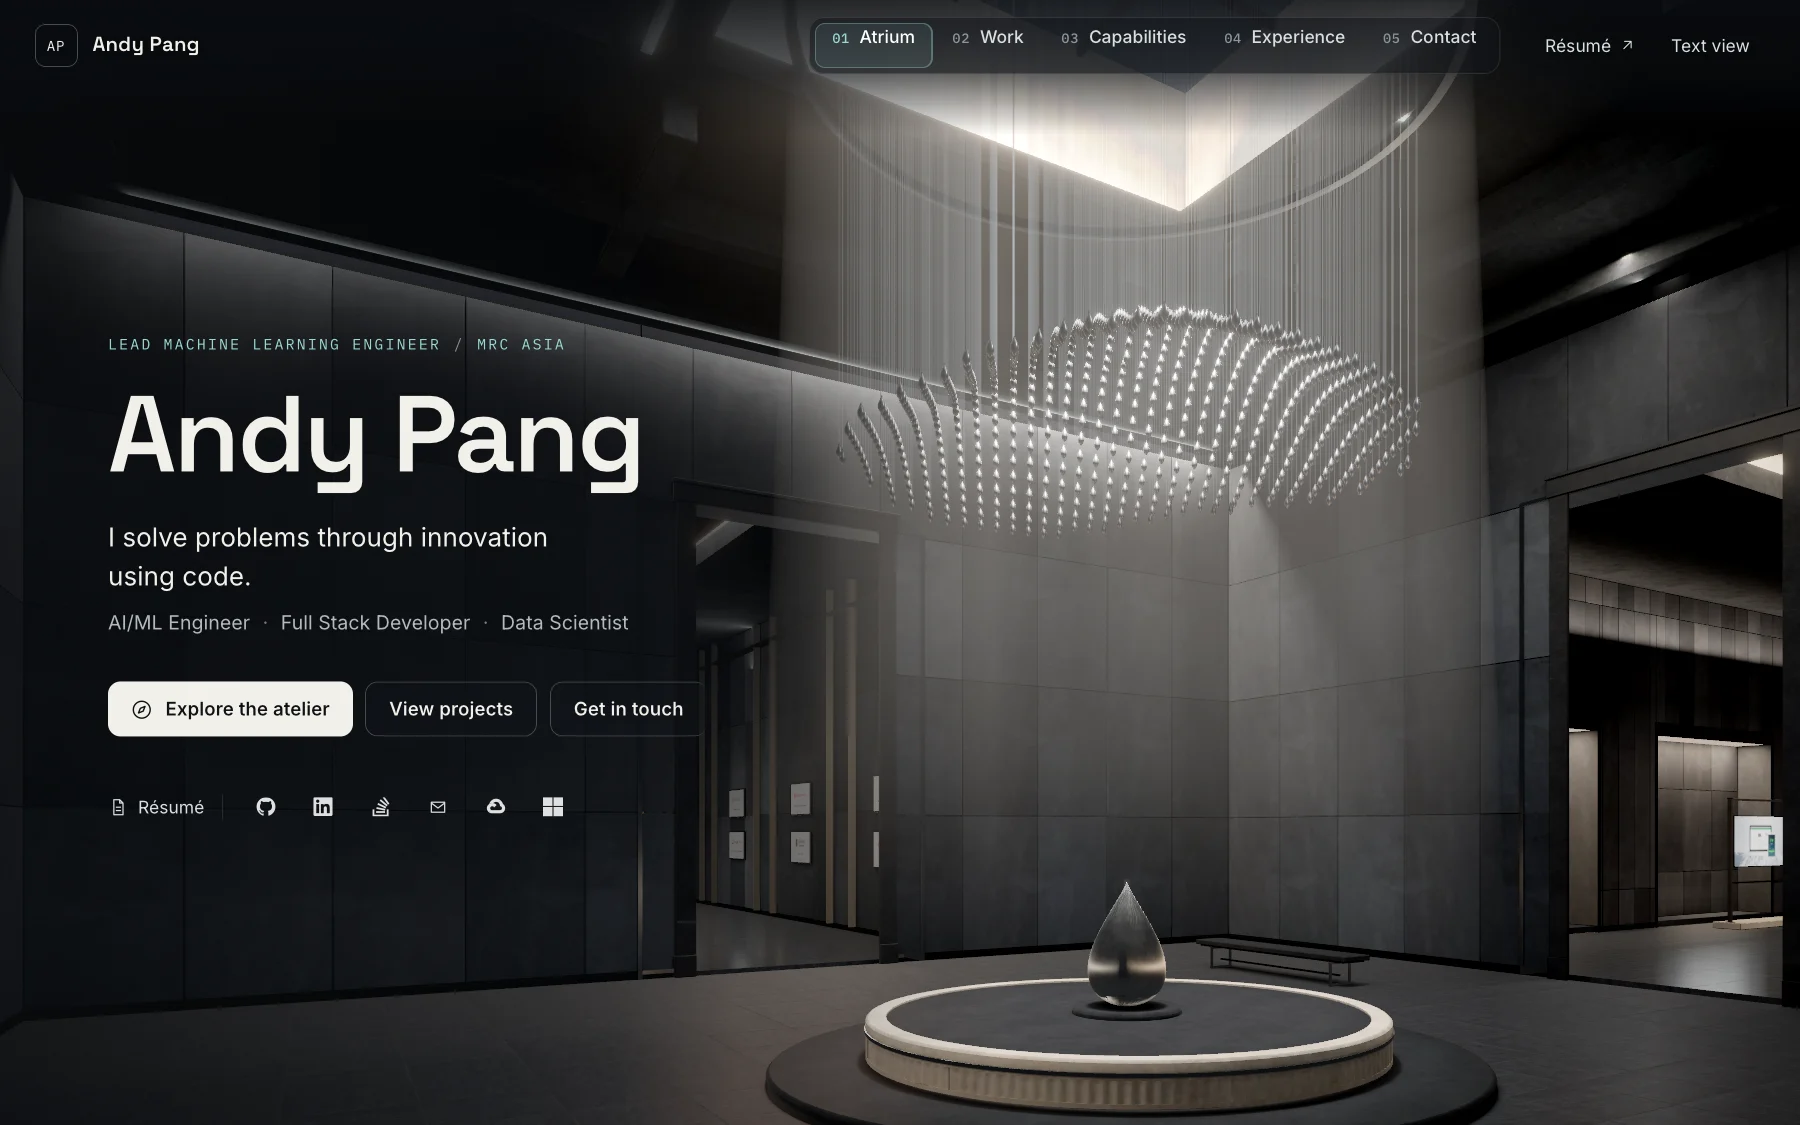
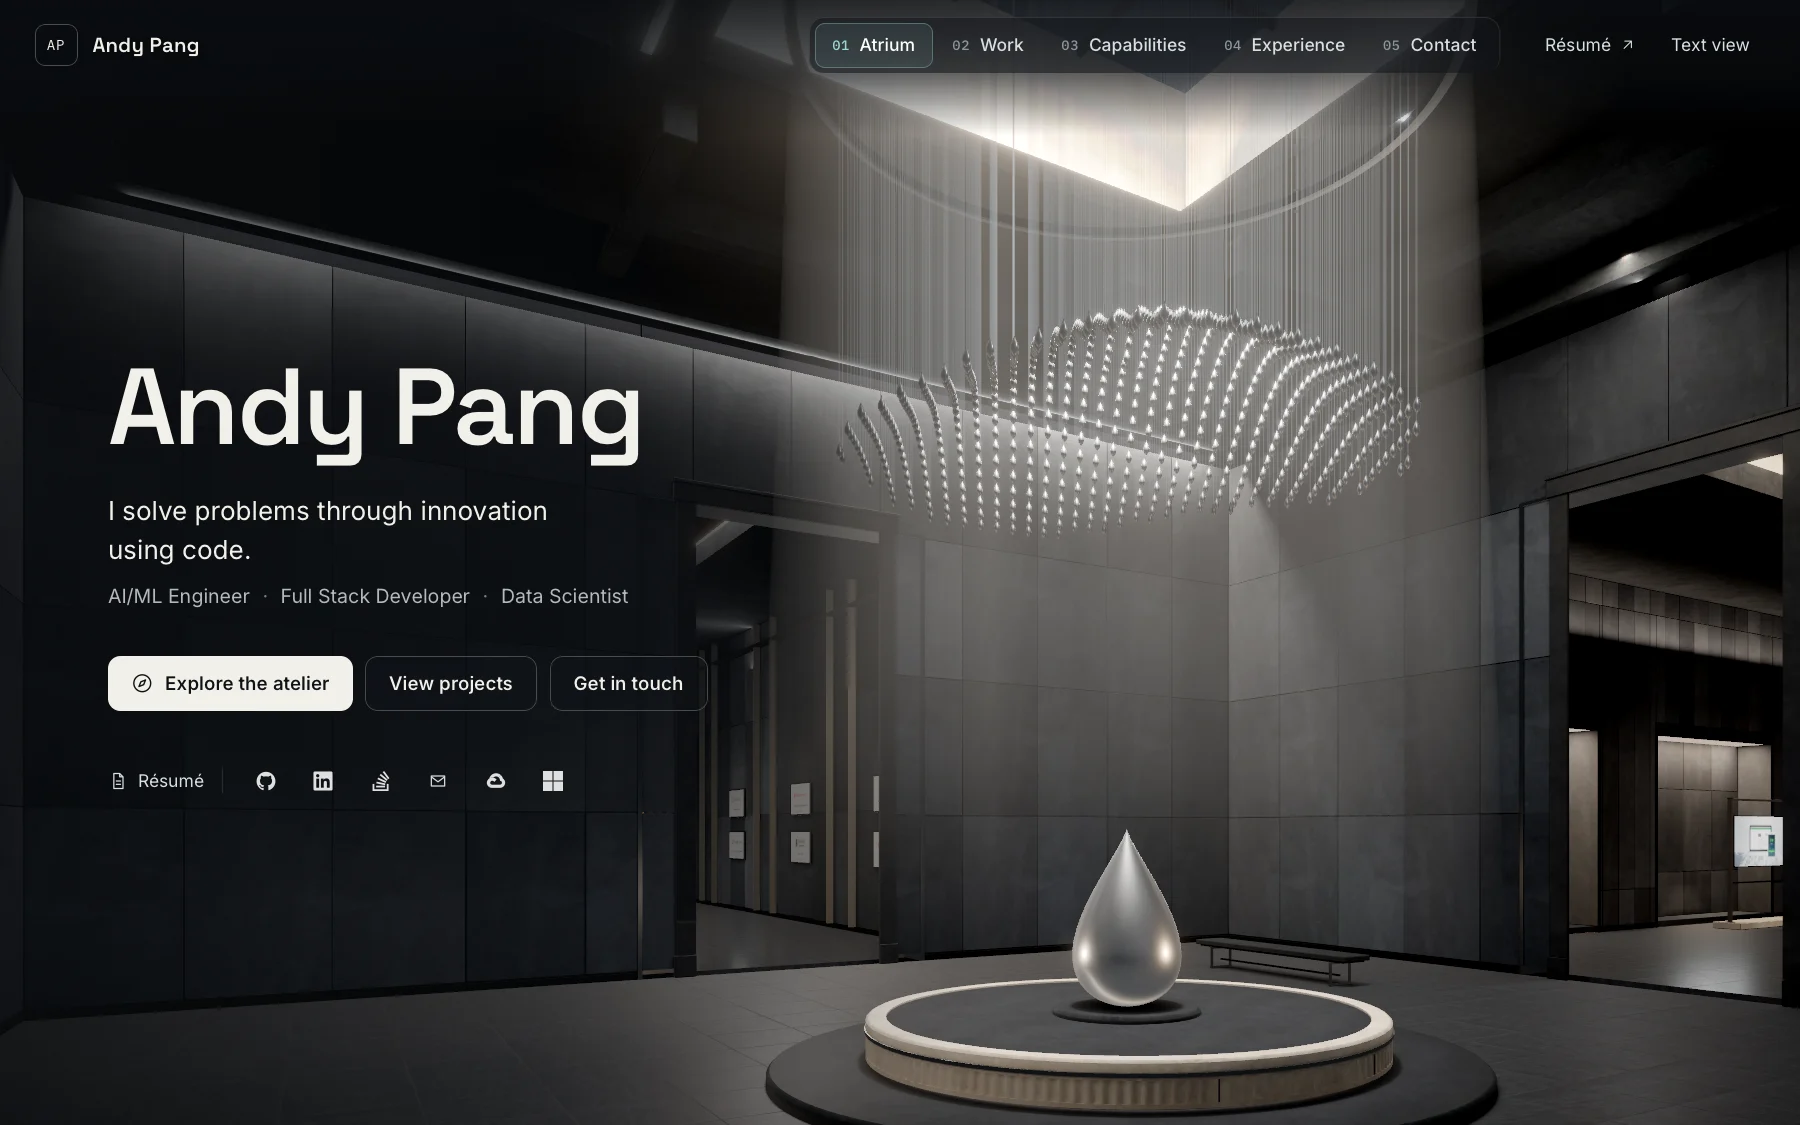
Warm lab palette, equal-height mobile guide cards, current DevFolio screenshot
- Lab walls and fill moved onto the shared warm-neutral key (was cold grey)
- Mobile room-guide cards fill their grid rows, so every card is the same height
- DevFolio project screenshot recaptured from the current build (no role eyebrow)

diff --git a/three/engine.ts b/three/engine.ts
@@ -67,12 +67,12 @@ const ZONE_LM: Record<Zone, number> = { atrium: 1.0, gallery: 0.95, lab: 1.25, c
 const ZONE_COLOR: Partial<Record<Zone, Record<string, string>>> = {
   // each room keeps the campus materials but shifts their emphasis (DESIGN §3.2)
   gallery: { stone_wall: '#8e9094', ceramic: '#cfc9bf', plaster: '#55575a' },     // graphite hall, warmth from the light only
-  lab: { stone_wall: '#7c8998', fabric: '#4c5560', ceramic: '#7f7a72' },           // cool acoustic studio
+  lab: { stone_wall: '#8a8986', fabric: '#57575a', ceramic: '#7f7a72' },           // graphite studio on the shared warm-neutral key
   corridor: { stone_wall: '#68737f', ceramic: '#b9b3a9' },                         // deep graphite procession
   terrace: { plaster: '#d8d4cc', stone_wall: '#6a6f76', basalt_floor: '#7a736b' },   // warm dusk ground
 }
 const ZONE_FILL: Record<Zone, [number, number, number]> = {
-  atrium: [0.045, 0.05, 0.062], gallery: [0.085, 0.09, 0.105], lab: [0.2, 0.205, 0.22],
+  atrium: [0.045, 0.05, 0.062], gallery: [0.085, 0.09, 0.105], lab: [0.21, 0.2, 0.19],
   corridor: [0.13, 0.135, 0.155], terrace: [0.16, 0.145, 0.13],
 }
 const ZONE_EMIT: Record<Zone, number> = { atrium: 5.0, gallery: 0.6, lab: 0.85, corridor: 2.2, terrace: 3.0 }

diff --git a/components/RoomGuide.vue b/components/RoomGuide.vue
@@ -130,7 +130,8 @@ function pick(it: Item) {
   .plan { display: none; }
   .blurb { display: none; }
   /* phones: every item fully visible as a two-column grid, scrolling vertically if a room has many */
-  .items { display: grid; grid-template-columns: 1fr 1fr; gap: 6px; border-top: 0; margin-top: 10px; max-height: 38vh; overflow-y: auto; scrollbar-width: none; }
+  .items li { display: flex; }   /* cards fill their row: every card in the grid is the same height */
+  .items { display: grid; grid-template-columns: 1fr 1fr; grid-auto-rows: 1fr; gap: 6px; border-top: 0; margin-top: 10px; max-height: 38vh; overflow-y: auto; scrollbar-width: none; }
   /* number sits above the title so narrow cards keep titles to two lines */
   .item { flex-direction: column; align-items: flex-start; justify-content: center; gap: 2px; border: 1px solid var(--hairline); border-radius: 10px; padding: 7px 10px; min-height: 44px; font-size: 0.82rem; line-height: 1.25; }
   .meta { min-width: 0; font-size: 0.64rem; }
